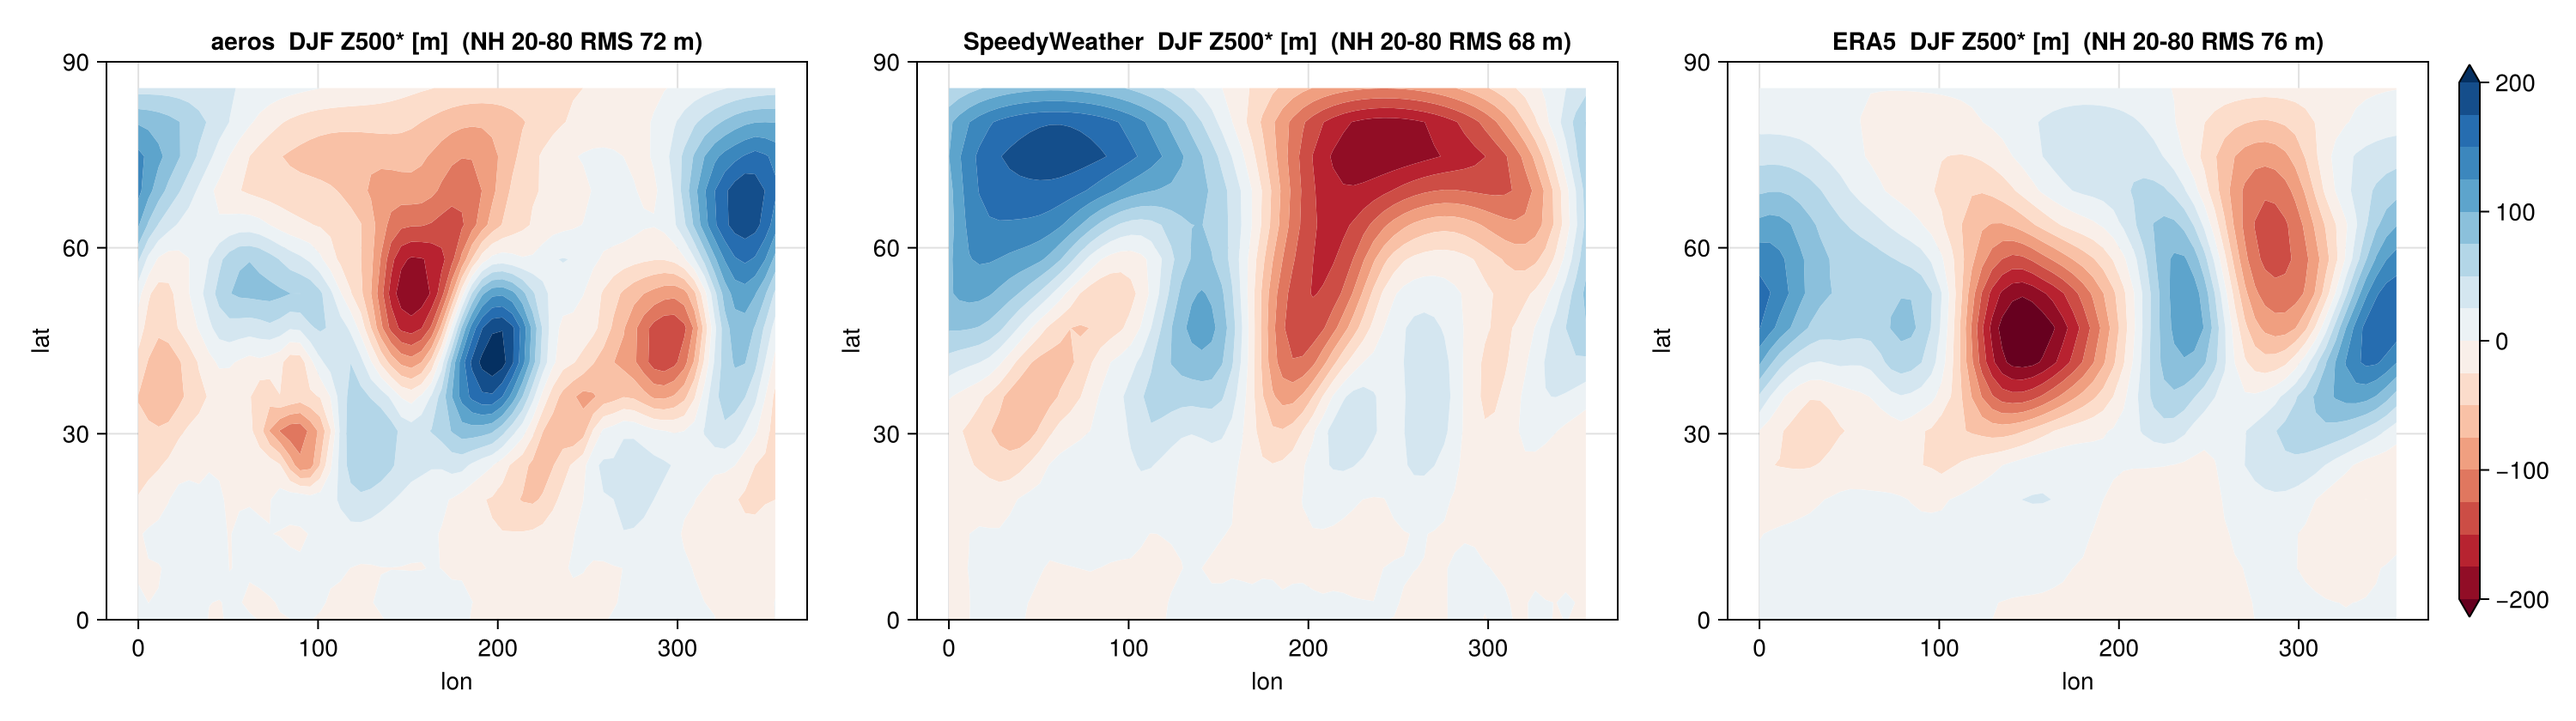
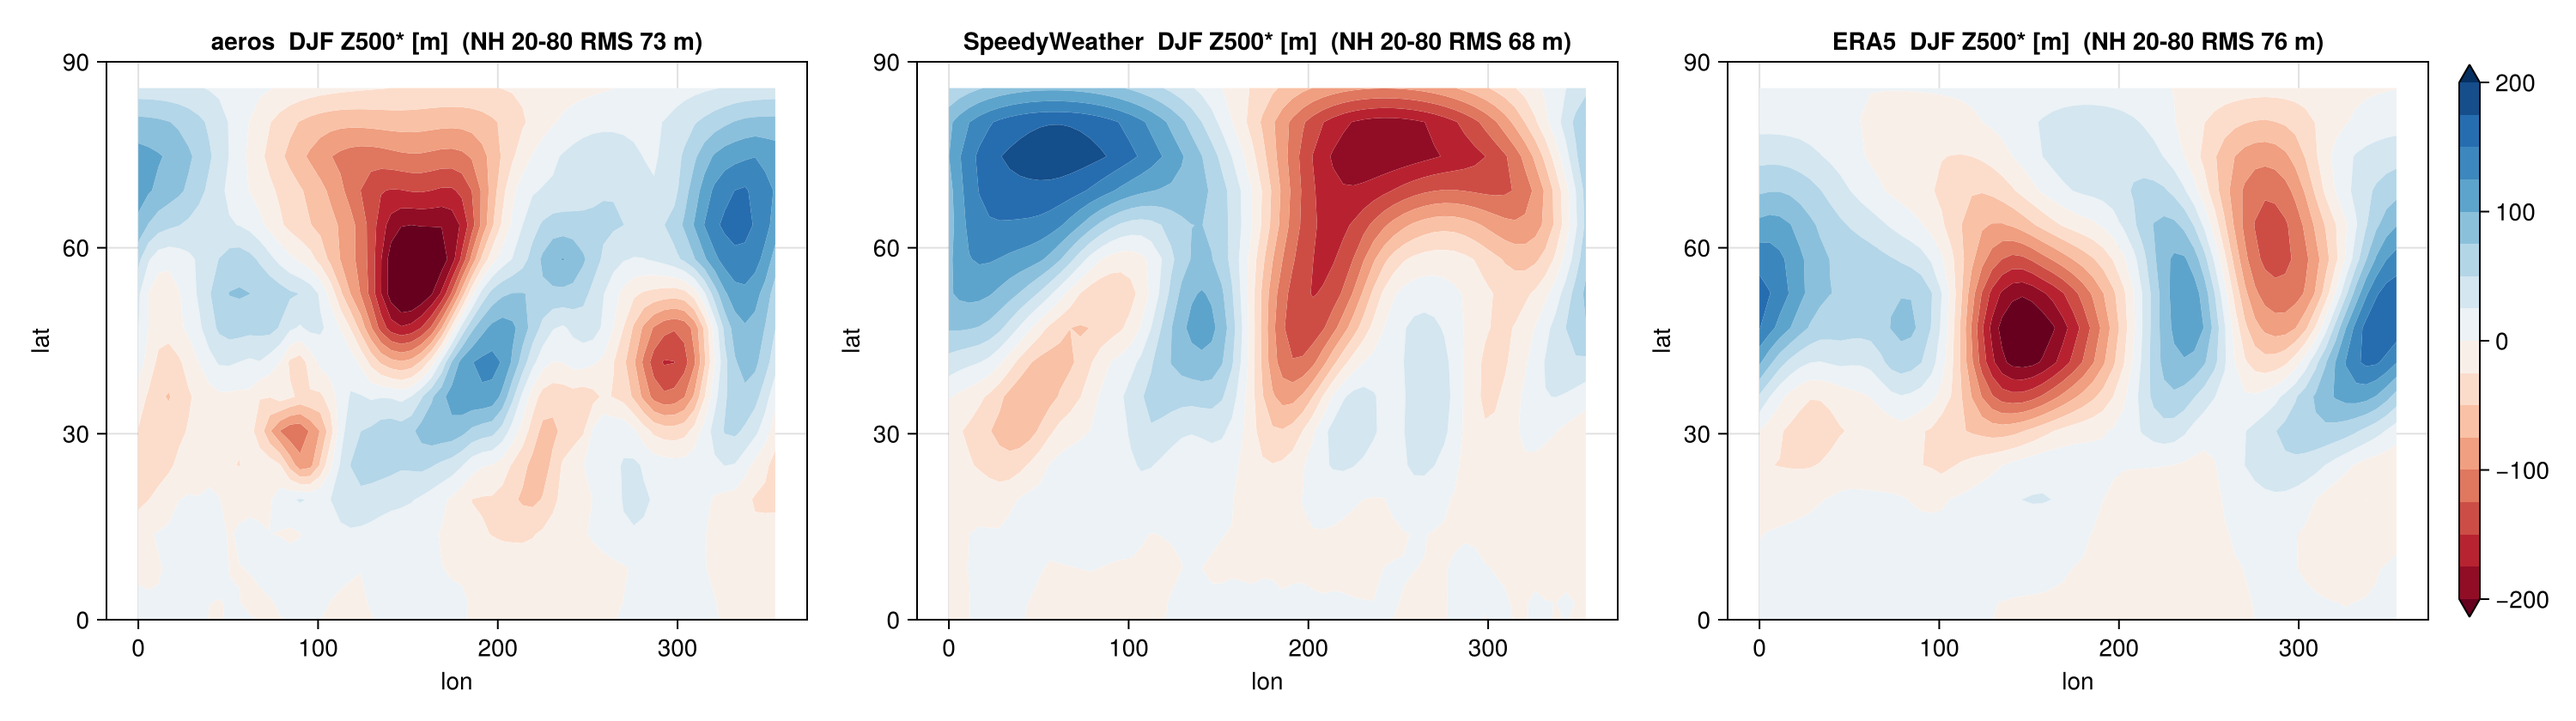
condensation/cloud: ice-phase thresholds -- cond_rh_crit_ice 0.80 and cld_rhc_ice 0.60 blended by the liquid fraction (winter cap RH 82-94 -> 73-86 %, Jan land LW down 233 -> 219, CRE -55/+22, P 2.95); cld_lwc 0.034e-3; test; climatology + hand-off

diff --git a/docs/m2_handoff.md b/docs/m2_handoff.md
@@ -70,6 +70,23 @@ Both land seasons are still ~3–4 K warm at 2 m: January from the moist winter 
 (233 vs 209; RH 82–94 % at 45–75N — deficit 2), July from too little cloud over summer land (SW net
 225 vs 196, cover 0.47 vs 0.57) and LH 100 vs 73.
 
+### Update 2026-09-08 (late): winter-cap moisture — ice-phase condensation and cloud thresholds
+
+The cap's DJF water budget was fine (P−E 0.64 vs ERA5 0.74 mm/day, transport in 0.70, DJF cap ω ≈ 0):
+the columns simply sat at the single 0.93 condensation threshold (RH 82–94 % at 45–75N vs ERA5
+60–80). Ice clouds precipitate well below water saturation, so: **`cond_rh_crit_ice = 0.80`** (the
+threshold blends from `cond_rh_crit` to it with the liquid fraction, `aeros_condensation`) and, because
+the diagnostic cloud then collapsed (winter land cover 0.40, LW CRE +6), **`cld_rhc_ice = 0.60`**
+(the cloud threshold is min(rhc(σ), cld_rhc_ice) for the ice fraction, `aeros_cloud`). Sweep
+(`diag/W1–W9`): cld_rhc_ice 0.40 → LW CRE +33, 0.70 → +14; cond 0.75 dries the cap to ERA5's RH but
+cools it 3–4 K; `cld_lwc` 0.034e-3 closes TOA. `test_condensation` check 6. Result
+(`docs/refs/realearth_metrics_2026-09-08_L6_ice.md`): cap DJF RH 73–86 % (ERA5 68–84), January land
+LW down 233 → 219 (209), 2 m Jan +1.8 K (was +3.8), CRE −55/+22 (−46/+22), P 2.95 (2.9), LH 86 (84),
+TOA +0.2, Z500* 73 (76), jet 31.1 (33.7), NH-land amplitude 35.5/34.5 (33.6; a little large now).
+Not moved: the tropical upper-troposphere RH (66 vs 37 %: set by the convective reference, not
+condensation), July land (SW net 217 vs 196, LH 93 vs 73, cover 0.47 vs 0.57), global cover 0.50
+vs 0.63, OLR 236 vs 242 with clear-sky 258 vs 264.
+
 ### Where the model is
 
 All on `main`: 9e7b227 (morning), then **6b8b55a** (surface exchange: Monin-Obukhov unstable
@@ -159,11 +176,8 @@ except for its 300 hPa part — see the evening update)
    of it was the SW gap. Column water 20.6 vs 24.5 mm with P and E right → moisture residence
    / vertical distribution; RH at 500 hPa 62–76 % vs 47–60. Look at the subsidence warming
    distribution (SBM enthalpy shift, vertical advection of T) and the lid layer.
-2. **Winter cap** (DJF >60N): transport into the cap 1.45 PW vs ERA5 2.19 with the current
-   clouds (it was 2.18 at the pre-sub-cloud calibration), column RH 81–102 % at all levels,
-   cover 0.84, OLR 161 vs 177, 69N bias −4 to −8 K. The cap needs a drying process for
-   near-saturated cold columns (ice-phase precipitation efficiency) and mixed-phase cloud optics
-   (below 250 K everything is ice at cirrus IWC → radiatively thin).
+2. ~~**Winter cap**~~ — resolved 2026-09-08 late (ice-phase condensation + cloud thresholds; the
+   T part earlier by the surface exchange): DJF RH at ERA5's, 69N bias −0.4 to −3.5 K.
 3. **Consistent FV mass flux** (option 3 of the transport discussion): build the face air fluxes
    from the spectral divergence so the rescaling r vanishes; r is 0.4 %/step now, 1.4 % at the
    polar row — a real but second-order term since the sign fix.

diff --git a/docs/refs/realearth_metrics_2026-09-08_L6_ice.md b/docs/refs/realearth_metrics_2026-09-08_L6_ice.md
@@ -1,0 +1,36 @@
+# aeros vs SpeedyWeather vs ERA5, real-Earth T21 (aeros L6, 2026-09-08 late: ice-phase condensation and cloud thresholds)
+
+aeros 3 yr (2 yr spin-up + 1 yr monthly), dt = 3600, 2694 SYPD. On top of 2c7d59d: `cond_rh_crit_ice = 0.80`, `cld_rhc_ice = 0.60` (new keys; thresholds blended by the liquid fraction), `cld_lwc 0.034e-3`.
+
+Year-3 global means: TOA net +0.2 W/m², OLR 235.8 (ERA5 242), clear-sky OLR 258.2 (264), CRE SW −55.0 / LW +22.3 (−46 / +22), cover 0.50 (0.63), P = E = 2.95 mm/day (2.9), LH 85.6 (84; ocean 102 / land 47 vs 101 / 41), SH 16.0 (17), column water 24.9 mm (24.5).
+
+Winter cap DJF RH at 60–75N: 73/75/75/76/86 % at σ 0.36–0.96 (ERA5 70/68/69/74/84; before 84–94). NH 40–70N land: January LW down 219 (ERA5 209; before 233), 2 m Jan 259.4 / Jul 293.9 (257.6 / 290.7), Jul−Jan 2 m 34.5, skin 35.9 (33.1 / 35.0); July SW net 217 (196), LH 93 (73), cover 0.47 (0.57).
+
+Lid T minus the ERA5 10–257 hPa layer mean: 60–90S +1.9, 30–60S +3.0, tropics +1.8, 30–60N +2.0, 60–90N +2.5.
+
+Zonal T bias vs ERA5 at the same pressure (annual, K; 60–75S / 30–45S / 15S–15N / 30–45N / 45–60N / 60–75N):
+
+```
+sigma        60-75S     30-45S    15S-15N     30-45N     45-60N     60-75N
+0.134          2.5        7.0       11.8        7.5        1.0        1.4
+0.365          0.3       -1.9        3.0        2.5       -0.1       -0.1
+0.563         -2.5       -3.7        1.7       -0.5       -1.6       -2.8
+0.728         -1.8       -3.4       -0.0       -1.7       -1.2       -2.4
+0.860         -0.4       -1.1       -0.7       -1.5       -0.2       -1.4
+0.959         -0.7       -0.1        0.6        0.1        1.1       -0.1
+```
+
+DJF 69N-band −0.5/−3.5/−3.5/−2.5/−0.4 at σ 0.36–0.96.
+
+aeros: `mwm/D_realearth/output/aeros_realearth_T21L6.nc` · SW: `mwm/D_realearth/output/sw_realearth_T21L8.nc`
+
+| metric | aeros | SpeedyWeather | ERA5 |
+|---|---|---|---|
+| global-mean precip [mm/day] | 3.0 | 3.3 | 2.9 |
+| global-mean T, top level / 70 hPa [K] | 216.7 | 235.2 | 206.6 |
+| global-mean T, lowest level / 2 m [K] | 285.6 | 278.3 | 287.5 |
+| max annual zonal-mean u [m/s] | 31.1 | 63.0 | 33.7 |
+| max annual [u] at 200 hPa [m/s] | 29.1 | 41.2 | 31.3 |
+| DJF NH Z500* RMS 20-80N [m] | 73.1 | 68.3 | 76.1 |
+| t2m |Jul-Jan|, NH 40-70N land [K] | 35.5 | 29.2 | 33.6 |
+| throughput [SYPD, 10 threads] | 2694.1 | 708.7 | NaN |
